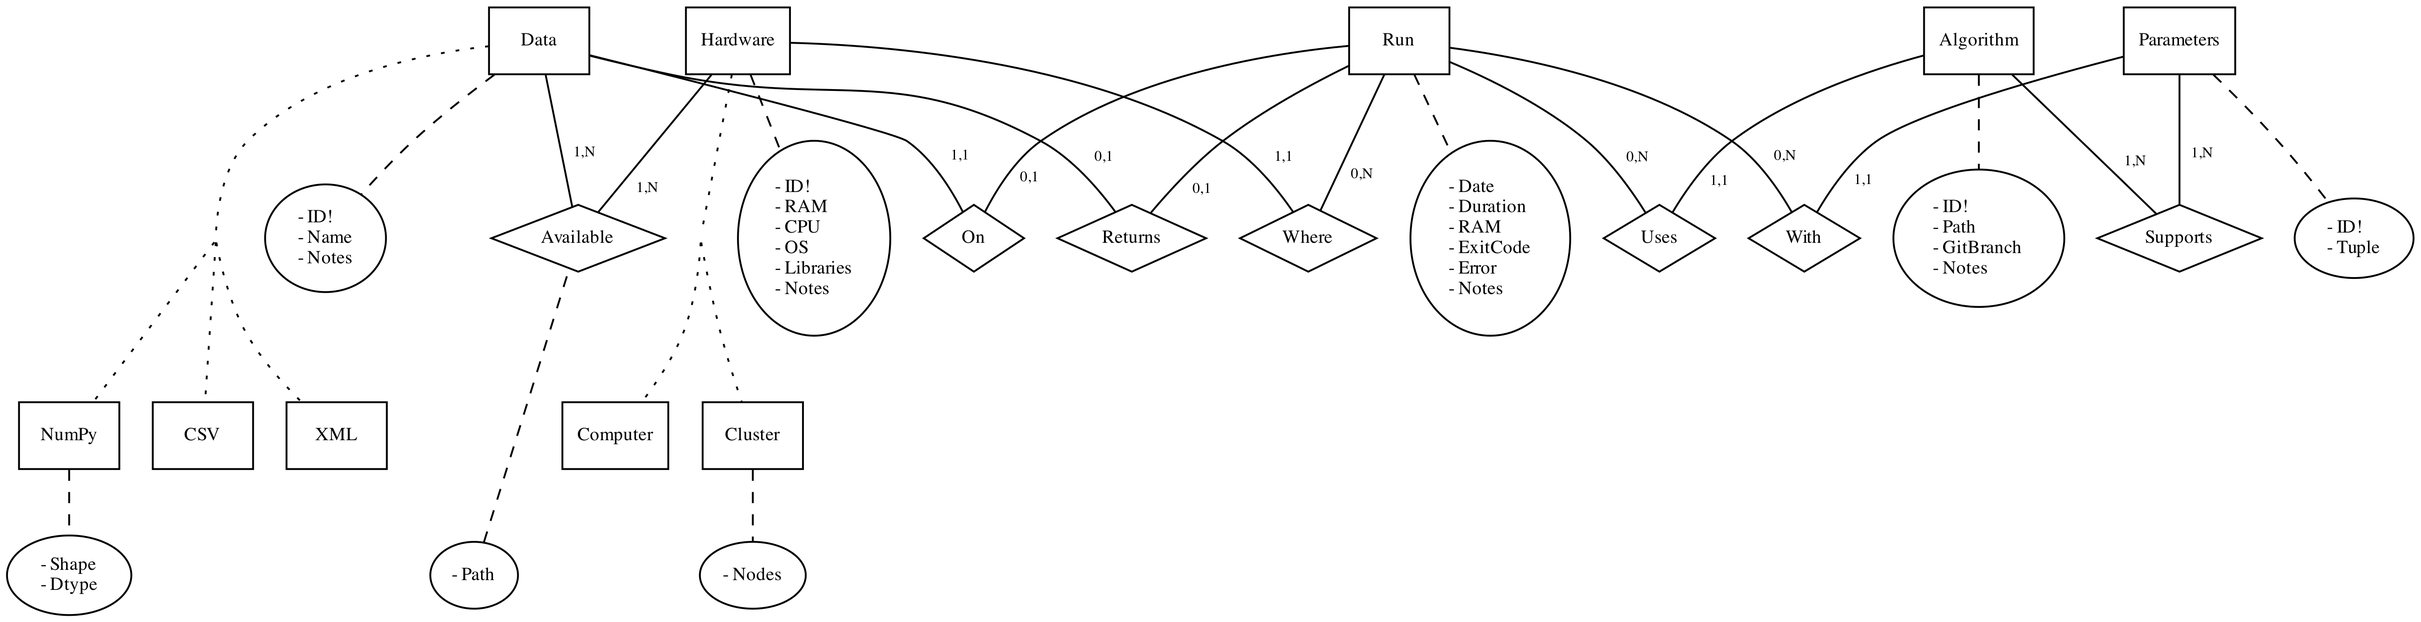
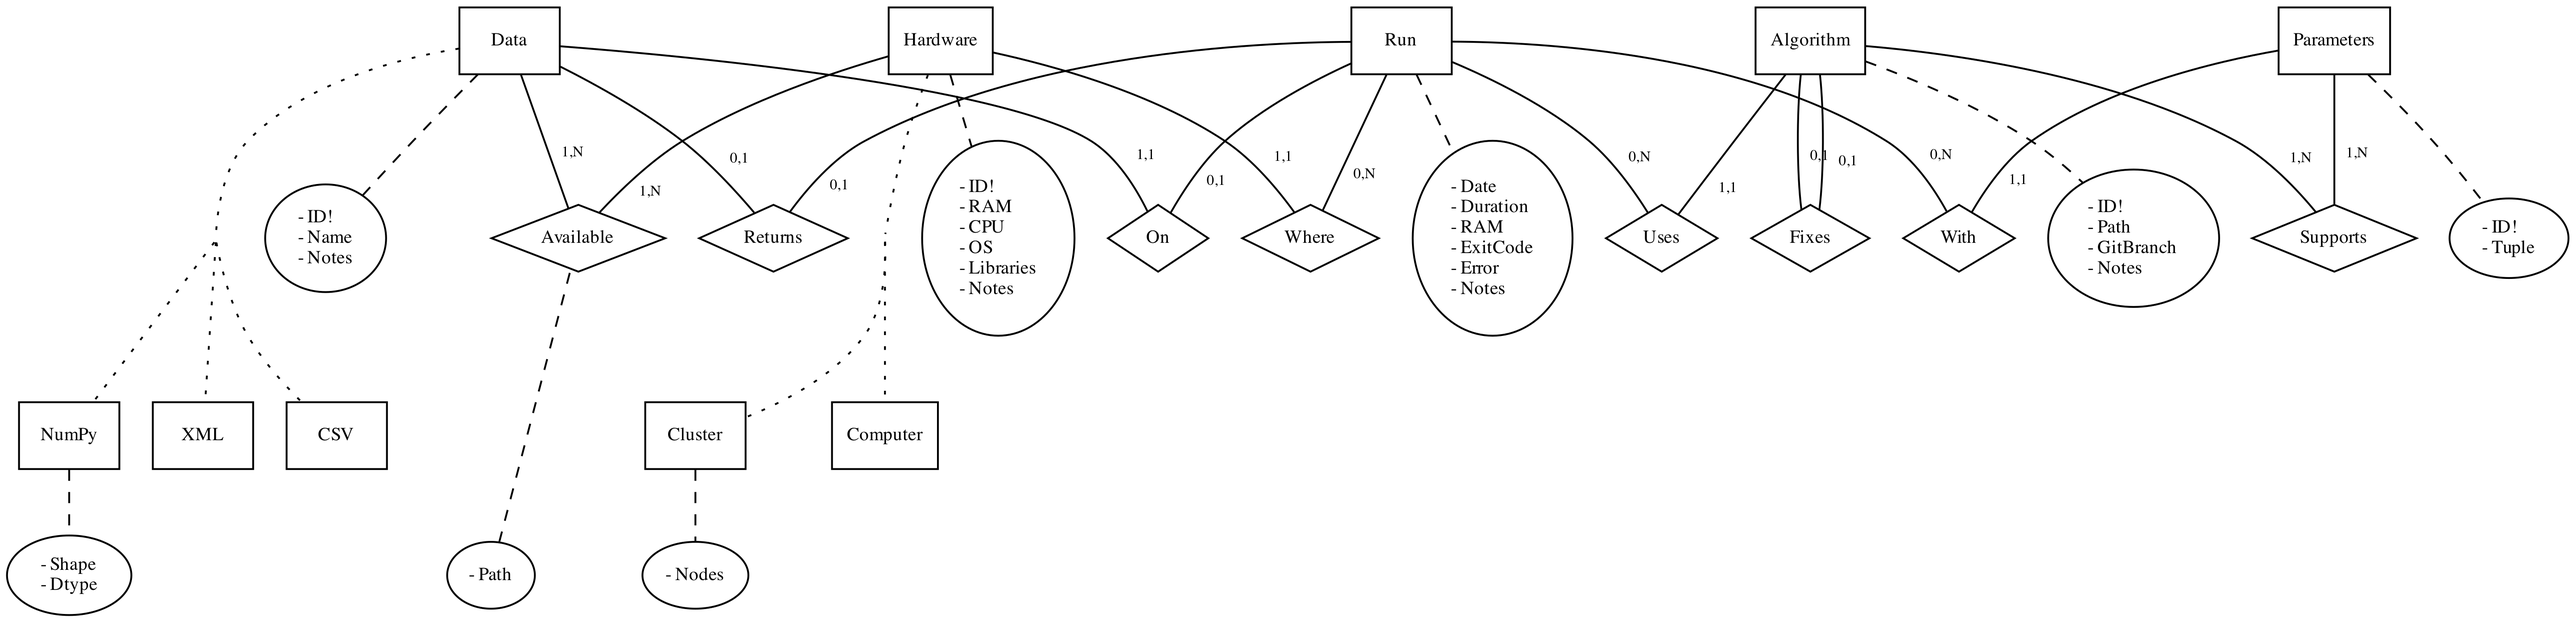
relazione Fixes

diff --git a/concettuale.py b/concettuale.py
@@ -6,7 +6,7 @@ import matplotlib.pyplot as plt
 fontsize = 10
 relation_numbers_fontsize = 8
 
-graph = nx.Graph()
+graph = nx.MultiGraph()
 
 def make_entity(label):
     graph.add_node(label, shape='rectangle', fontsize=fontsize)
@@ -68,6 +68,7 @@ make_relation('On', 'Run', 'Data', (0, 1), (1, 1))
 make_relation('Where', 'Run', 'Hardware', (0, 'N'), (1, 1))
 make_relation('Returns', 'Run', 'Data', (0, 1), (0, 1))
 make_relation('With', 'Run', 'Parameters', (0, 'N'), (1, 1))
+make_relation('Fixes', 'Algorithm', 'Algorithm', (0, 1), (0, 1))
 
 # random constraints
 graph.add_edge('Data', available_label, style='invis')
